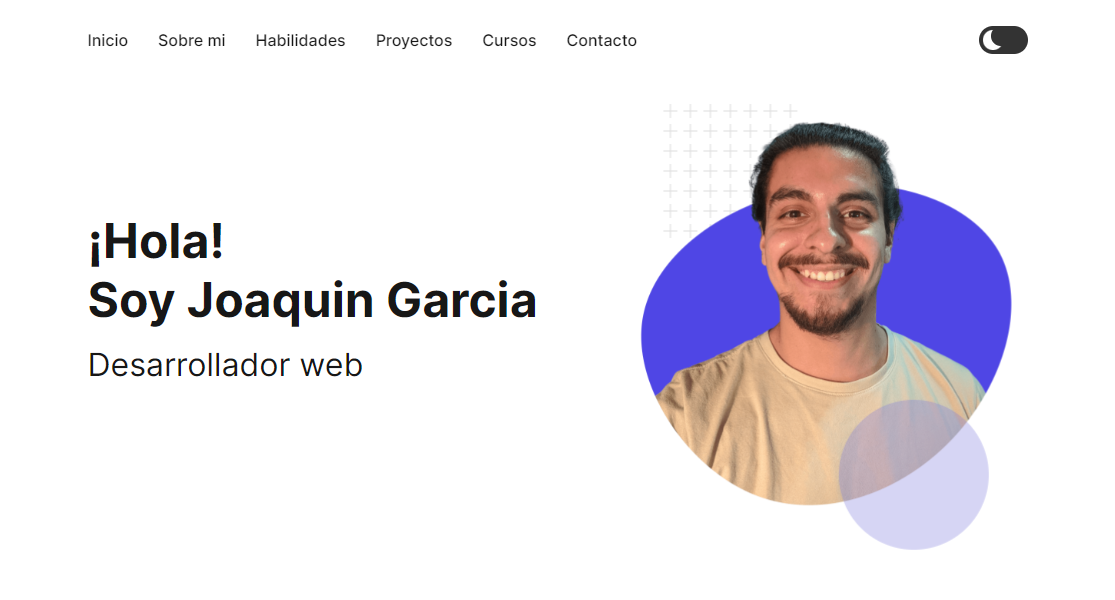
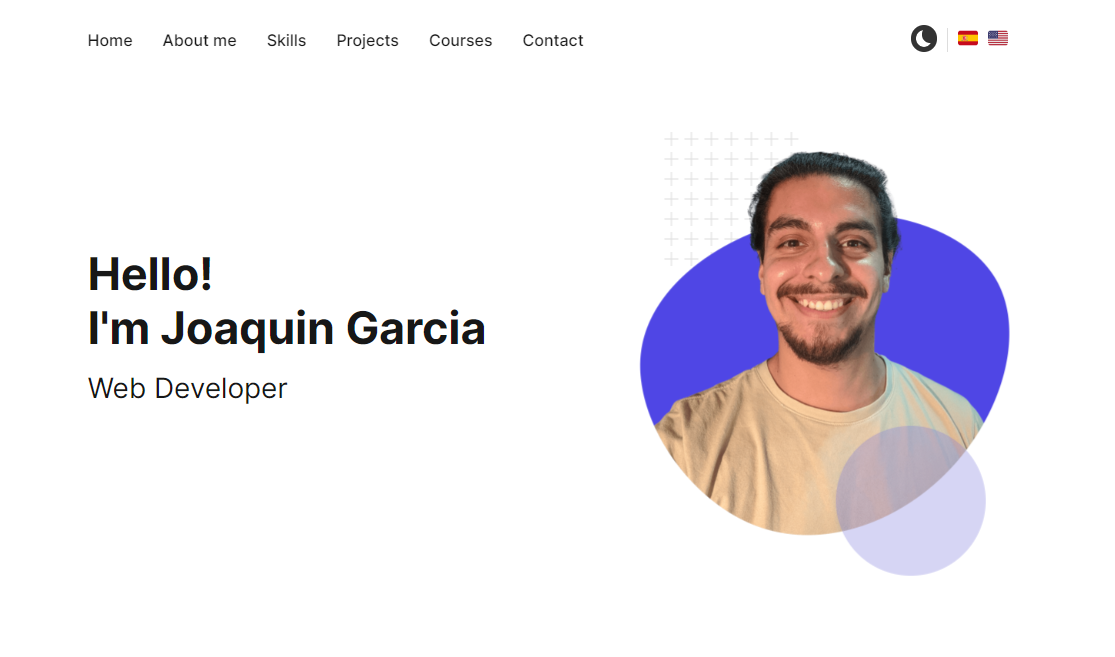
Update

diff --git a/style.css b/style.css
@@ -70,14 +70,20 @@ p {
 .lang {
   display: flex;
   align-items: center;
-  padding: 20px;
+  padding-left: 10px;
   gap: 10px;
+  border-left: 1px solid #ddd;
+}
+
+.sidebar .lang {
+  padding-left: 0;
+  border-left: none;
 }
 
 .tools {
   display: flex;
   align-items: center;
-  gap: 30px;
+  gap: 36px;
   padding: 30px 20px;
 }
 
